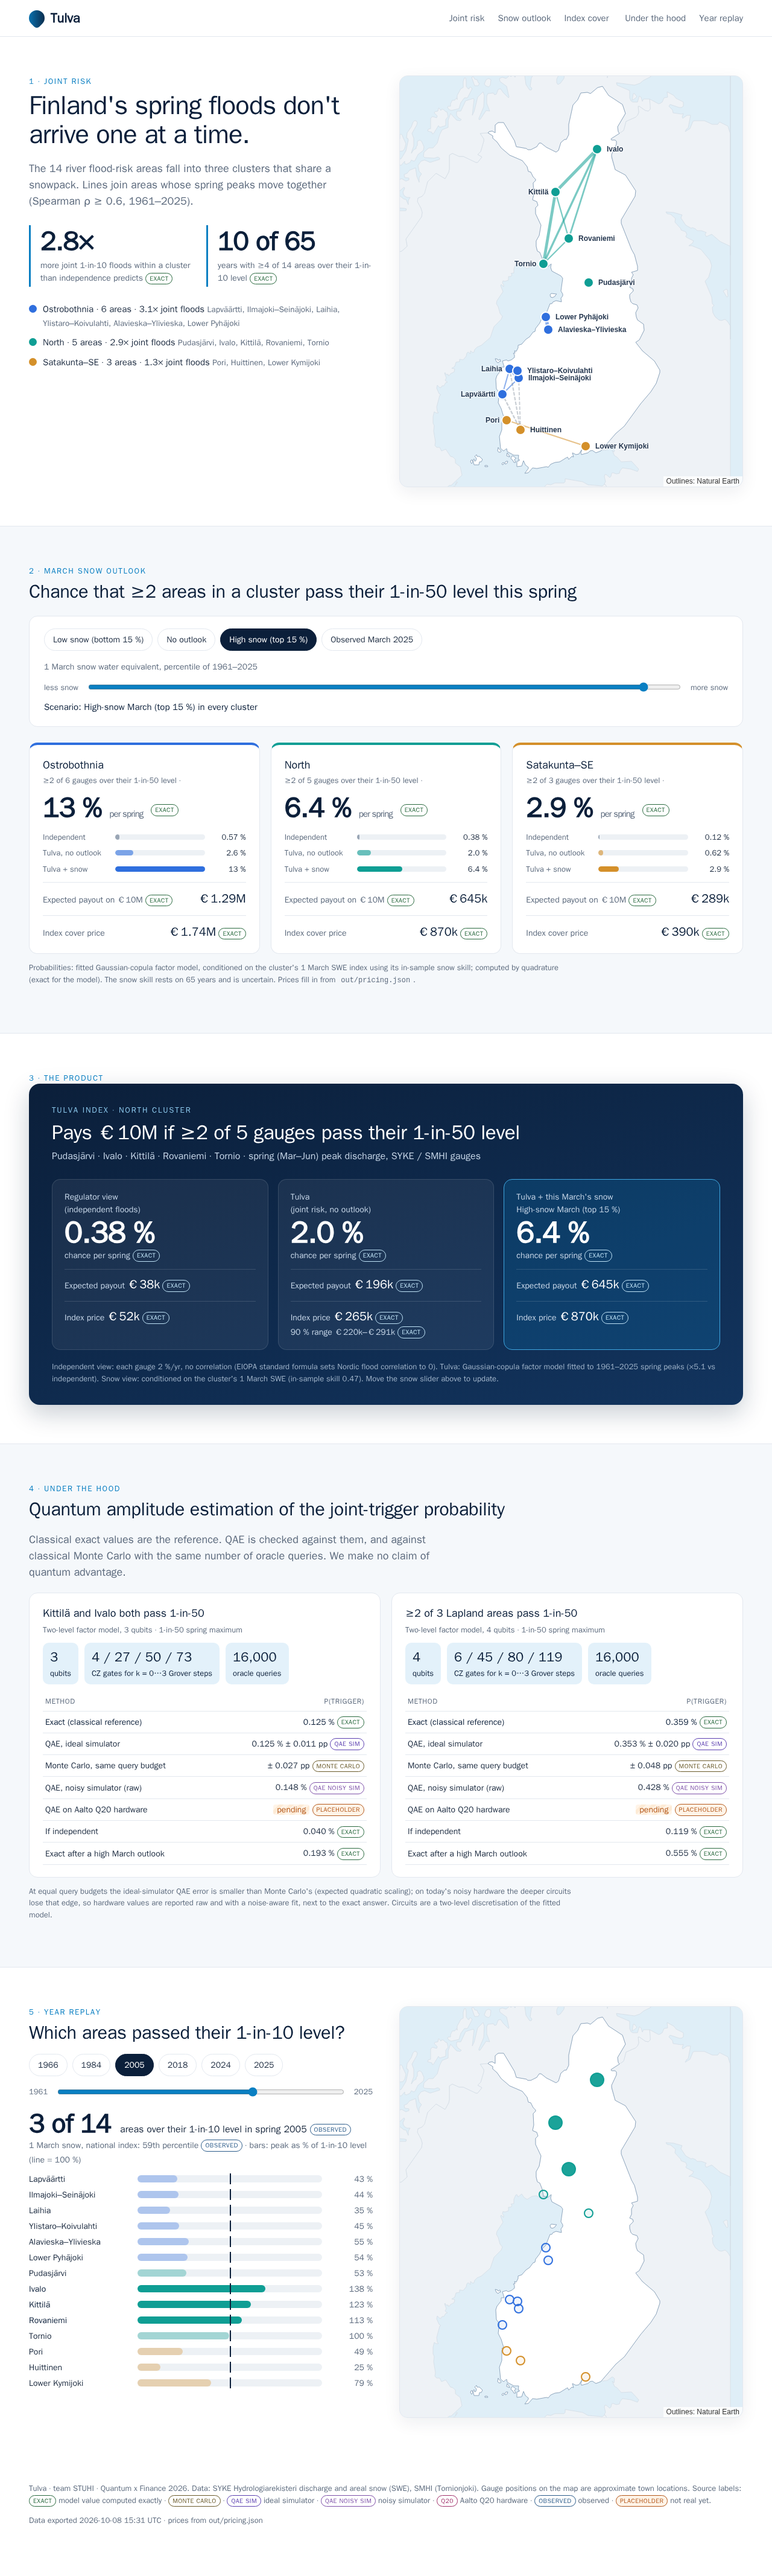
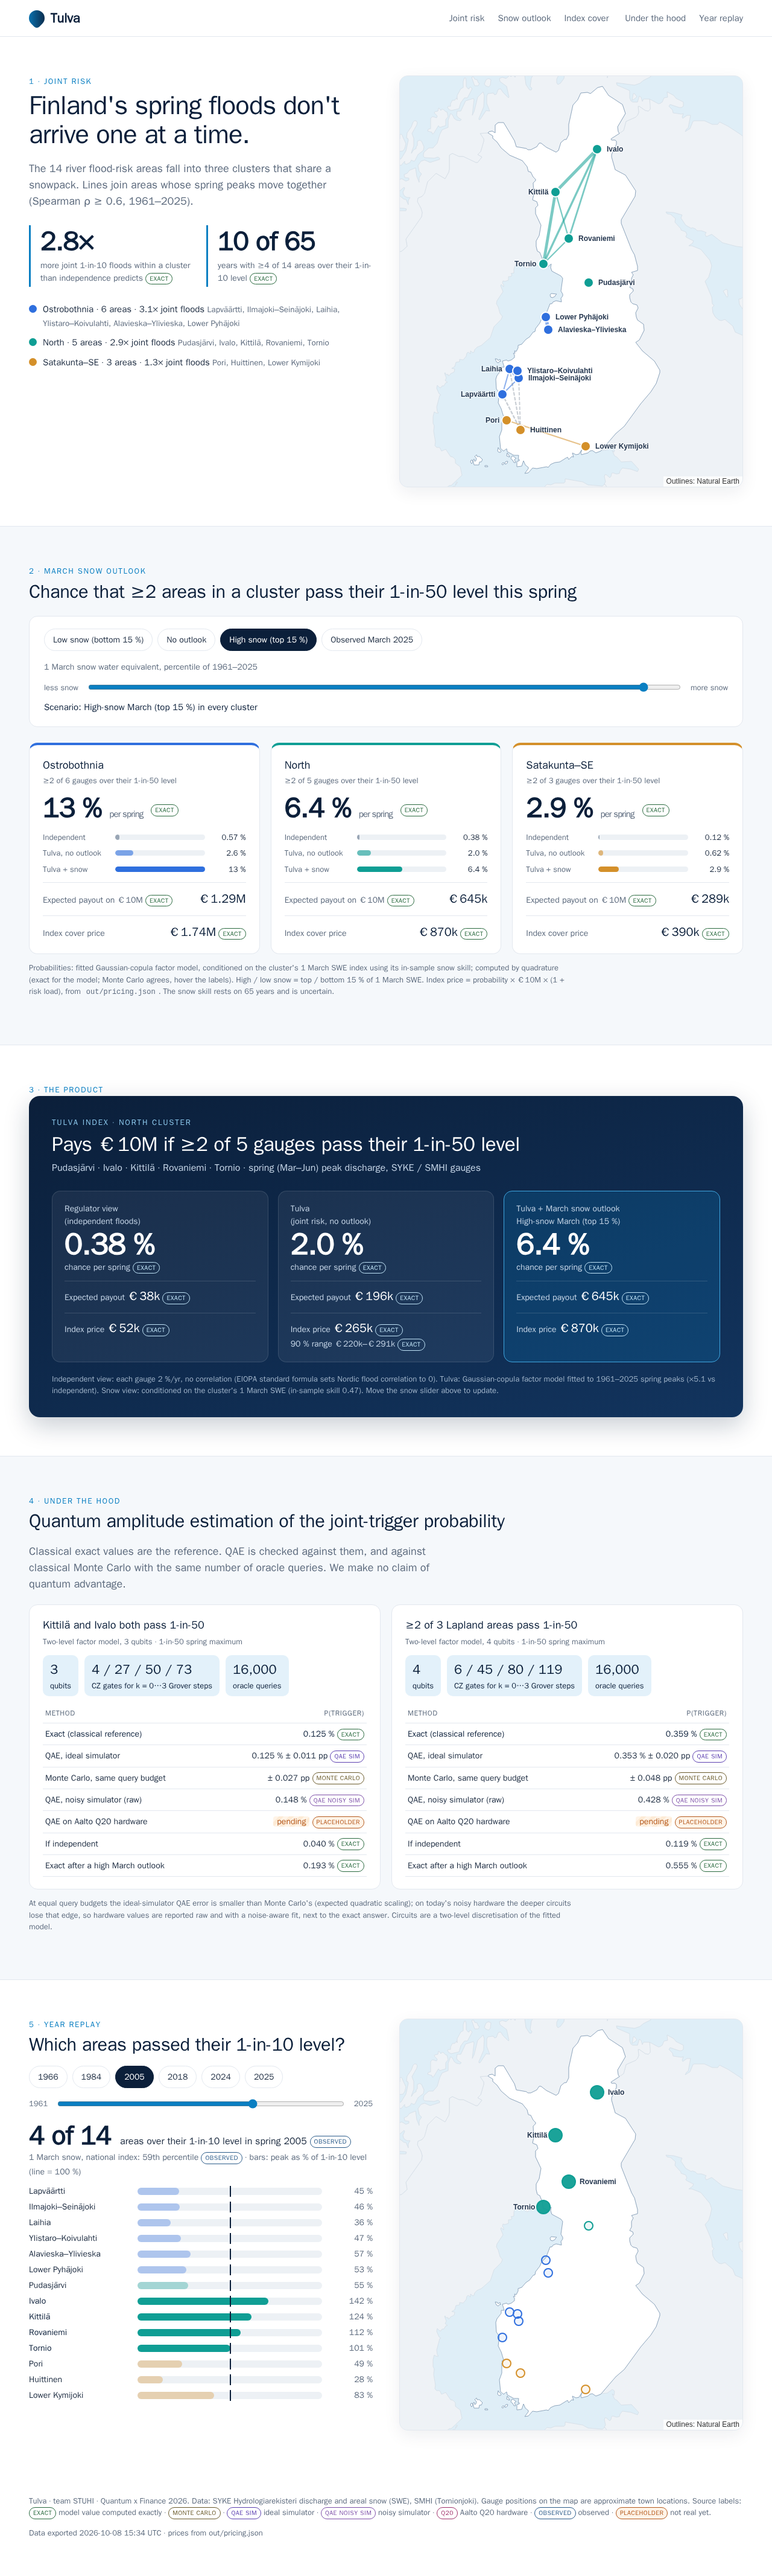
Web app: index prices from out/pricing.json, Natural Earth basemap, replay matches joint_counts

diff --git a/web/app.js b/web/app.js
@@ -184,7 +184,7 @@ function renderOutlook() {
     ];
     const bars = rows.map(([l, v, col]) => `<div class="bar"><span>${l}</span><span class="track"><span class="fill" style="display:block;width:${Math.max(1, v / max * 100)}%;background:${col}"></span></span><span class="num">${pct(v)}</span></div>`).join("");
     return `<div class="tile" style="--cc:${CLUSTER_COLOR[name]}">
-      <h3>${esc(name)}</h3><div class="sub">≥2 of ${cl.n} gauges over their 1-in-50 level · ${state.mode === "latest" ? ordinal(cl.latest_march.pct) + " pct snow in " + cl.latest_march.year : ""}</div>
+      <h3>${esc(name)}</h3><div class="sub">≥2 of ${cl.n} gauges over their 1-in-50 level${state.mode === "latest" ? " · " + ordinal(cl.latest_march.pct) + " pct snow in " + cl.latest_march.year : ""}</div>
       <div class="big">${pct(p)} <span class="unit">per spring</span> ${tag(pn.src, pn.note)}</div>
       <div class="bars">${bars}</div>
       <div class="price-row"><span>Expected payout on €10M ${tag("exact", "probability × €10M; pure premium before loadings")}</span><b>${eur(p * APP.payout_eur)}</b></div>
@@ -204,7 +204,7 @@ function renderCard() {
     ["Regulator view<br>(independent floods)", cl.p_independent, fpI, false, ""],
     ["Tulva<br>(joint risk, no outlook)", cl.p_tulva, fpT, false,
       boot ? `90 % range ${eur(boot[0])}–${eur(boot[2])} ${tag("exact", "year-bootstrap refit of the loadings, out/pricing.json")}` : ""],
-    [`Tulva + this March's snow<br><span style="font-weight:400">${outlookLabel(cl)}</span>`, pNow(NORTH, cl), priceNow(NORTH, cl), true, ""],
+    [`Tulva + March snow outlook<br><span style="font-weight:400">${outlookLabel(cl)}</span>`, pNow(NORTH, cl), priceNow(NORTH, cl), true, ""],
   ];
   $("#card").innerHTML = `
     <div class="kicker">Tulva Index · ${NORTH} cluster</div>
@@ -303,7 +303,8 @@ function renderReplay() {
     L.circleMarker([a.lat, a.lon], {
       radius: isOver ? 11 : 7, color: r == null ? "#9aa6b5" : col, weight: 2,
       dashArray: r == null ? "2 3" : null, fillColor: col, fillOpacity: isOver ? 0.95 : 0.08,
-    }).bindTooltip(`${a.area}: ${r == null ? "no data" : `${Math.round(v)} m³/s = ${(r * 100).toFixed(0)} % of its 1-in-10 level`}`).addTo(layer2);
+    }).bindTooltip(isOver ? a.area : `${a.area}: ${r == null ? "no data" : `${Math.round(v)} m³/s = ${(r * 100).toFixed(0)} % of its 1-in-10 level`}`,
+      isOver ? { permanent: true, direction: LABEL_DIR[a.area] || "right", className: "lbl", offset: [LABEL_DIR[a.area] === "left" ? -8 : 8, 0] } : {}).addTo(layer2);
     const w = r == null ? 0 : Math.min(r / 2, 1) * 100;
     return `<div class="rrow ${r == null ? "na" : isOver ? "over" : ""}"><span class="name">${esc(a.area)}</span>
       <span class="track" title="Line marks the 1-in-10 level (${lvl} m³/s)"><span class="fill" style="width:${w}%;background:${isOver ? col : col + "55"}"></span><span class="mark" style="left:50%"></span></span>

diff --git a/web/index.html b/web/index.html
@@ -48,8 +48,9 @@
     </div>
     <div class="tiles" id="tiles"></div>
     <p class="fine">Probabilities: fitted Gaussian-copula factor model, conditioned on the cluster's 1 March SWE index
-      using its in-sample snow skill; computed by quadrature (<b>exact</b> for the model). The snow skill rests on
-      65 years and is uncertain. Prices fill in from <code>out/pricing.json</code>.</p>
+      using its in-sample snow skill; computed by quadrature (<b>exact</b> for the model; Monte Carlo agrees, hover the labels).
+      High / low snow = top / bottom 15 % of 1 March SWE. Index price = probability × €10M × (1 + risk load), from
+      <code>out/pricing.json</code>. The snow skill rests on 65 years and is uncertain.</p>
   </div>
 </section>
 

diff --git a/web/style.css b/web/style.css
@@ -142,3 +142,8 @@ table.cmp tr.ref td { font-weight: 700; color: var(--navy); }
   .rrow { grid-template-columns: 120px 1fr 60px; font-size: 13px; }
   .bar { grid-template-columns: 96px 1fr 54px; }
 }
+
+@media (min-width: 1700px) {
+  .wrap { max-width: 1440px; }
+  .leaf { height: 760px; }
+}

diff --git a/scripts/export_web.py b/scripts/export_web.py
@@ -47,7 +47,7 @@ COORDS = {
 NE_URL = ("https://raw.githubusercontent.com/nvkelso/natural-earth-vector/master/geojson/"
           "ne_50m_admin_0_countries.geojson")
 BASEMAP_COUNTRIES = {"Finland", "Aland", "Sweden", "Norway", "Russia", "Estonia"}
-BBOX = (14.0, 56.5, 36.0, 71.5)   # lon_min, lat_min, lon_max, lat_max
+BBOX = (5.0, 53.0, 50.0, 74.0)   # lon_min, lat_min, lon_max, lat_max
 
 
 def basemap() -> dict:

diff --git a/README.md b/README.md
@@ -26,3 +26,9 @@ python scripts/run_hw.py --backend q20 --ems 2       # FiQCI error mitigation
 ```
 Job ids are written to `out/runs/` before waiting for results, and `backend.retrieve_job(id)` recovers a lost run.
 Check fiqci.fi/status first.
+
+## Demo web app
+```bash
+python scripts/export_web.py                                   # out/ + data/ -> web/data/*.json (rerun after new results)
+python3 -m http.server 3141 --bind 0.0.0.0 --directory web     # static page, no build step
+```
